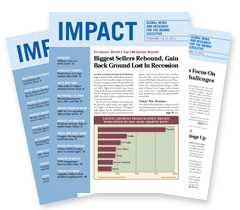
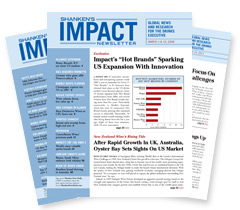
updated publication page w new Impact cover and title

diff --git a/themes/Shanken-News-Daily/pubform.php b/themes/Shanken-News-Daily/pubform.php
@@ -61,7 +61,7 @@ Template Name: Publication Order Form Page
 <p><span class="wpcf7-form-control-wrap ma-for1"><span id="ma-for1" class="wpcf7-checkbox"><span class="wpcf7-list-item"><label><input type="checkbox" name="ma-for1[]" value="$40.00 1 year Foreign - 4 issues" />&nbsp;<span class="wpcf7-list-item-label">$40.00 1 year Foreign - 4 issues</span></label></span></span></span></p> 
 </fieldset> 
 <fieldset id="im"> 
-<legend><strong class="label">Impact</strong>Global News and research for the drinks executive</legend> 
+<legend><strong class="label">Shanken's Impact Newsletter</strong>Global News and research for the drinks executive</legend> 
 <p><span class="wpcf7-form-control-wrap im-uscan1"><span id="im-uscan1" class="wpcf7-checkbox"><span class="wpcf7-list-item"><label><input type="checkbox" name="im-uscan1[]" value="$595.00 1 year US/Canada - 16 issues" />&nbsp;<span class="wpcf7-list-item-label">$595.00 1 year US/Canada - 16 issues</span></label></span></span></span></p> 
 <p><span class="wpcf7-form-control-wrap im-for1"><span id="im-for1" class="wpcf7-checkbox"><span class="wpcf7-list-item"><label><input type="checkbox" name="im-for1[]" value="$695.00 1 year Foreign - 16 issues" />&nbsp;<span class="wpcf7-list-item-label">$695.00 1 year Foreign - 16 issues</span></label></span></span></span></p> 
 </fieldset> 
